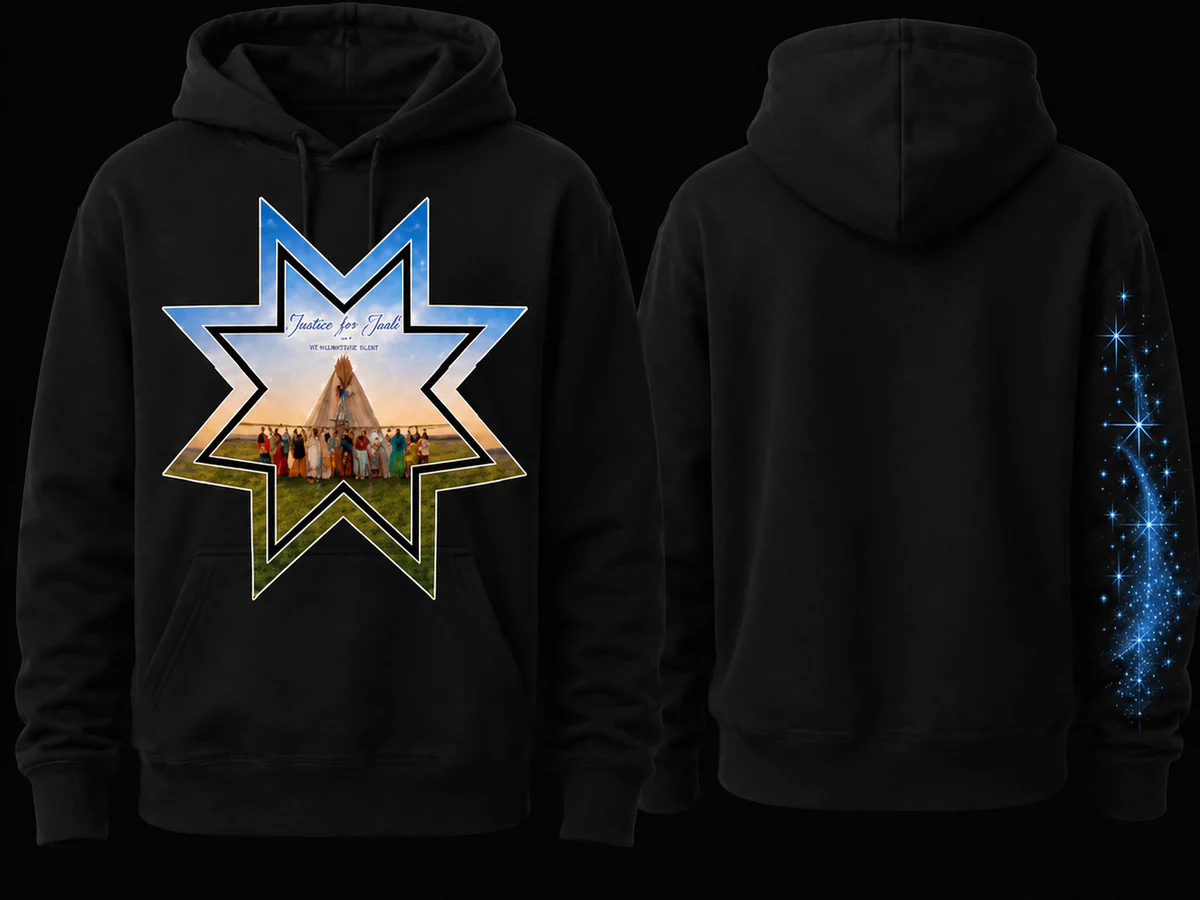
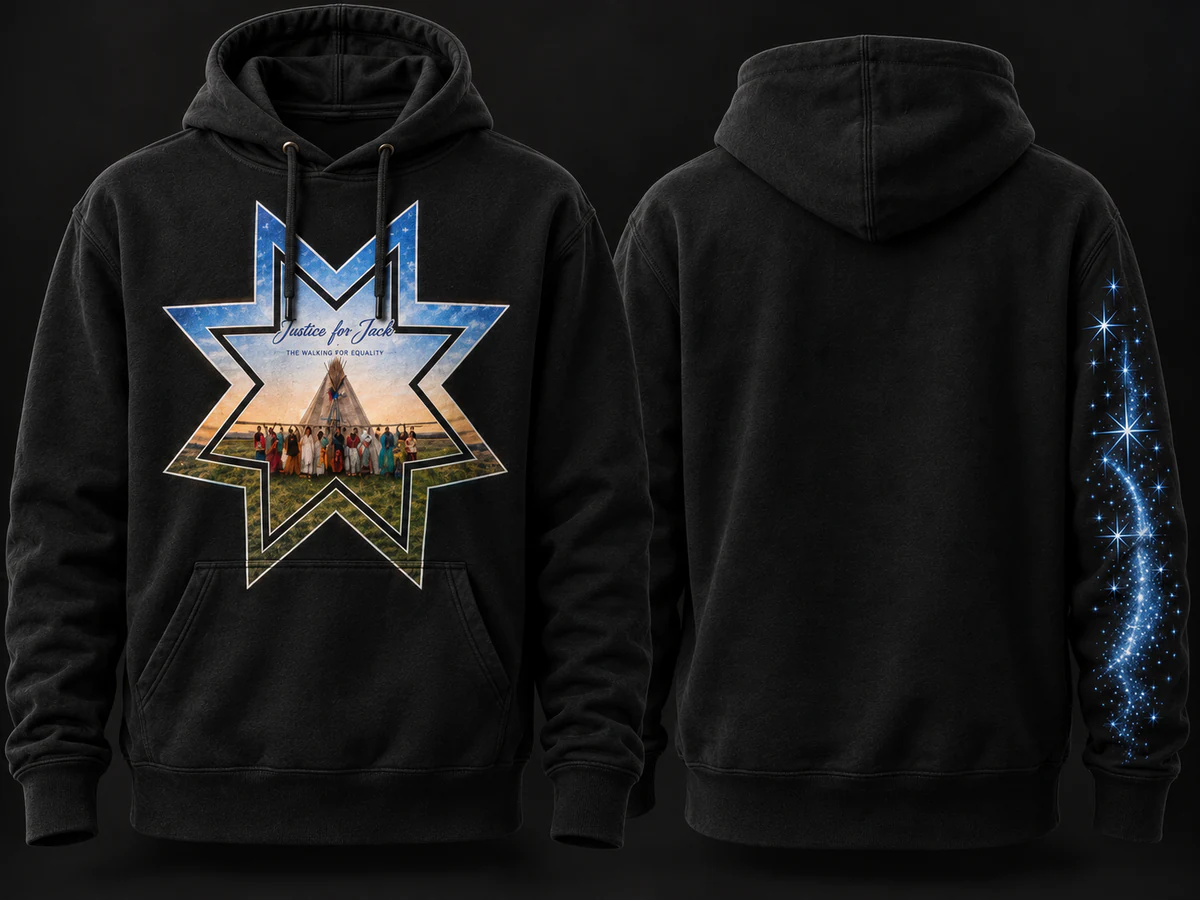
Update hoodie art, add vision and timeline photos
- Replace hoodie mockup with the new star-design artwork
- Add new "family at reserved table" photo for the homepage timeline
  section, removing the duplicate use of the remembering-Jaali image
- Add a new symbolic snow-field image for the vision section,
  replacing its placeholder reuse of the hero portrait
- Remove the now-unused jaaliPortraitSources asset entry

diff --git a/data/assets.ts b/data/assets.ts
@@ -1,23 +1,5 @@
 import type { AssetManifest } from "@/types/assets";
 
-const jaaliPortraitSources = {
-  desktop: {
-    src: "/assets/images/hero/jaali-banner-desktop.webp",
-    width: 816,
-    height: 1020,
-  },
-  tablet: {
-    src: "/assets/images/hero/jaali-banner-tablet.webp",
-    width: 720,
-    height: 900,
-  },
-  mobile: {
-    src: "/assets/images/hero/jaali-banner-mobile.webp",
-    width: 560,
-    height: 700,
-  },
-} as const;
-
 const jaaliUpdatedBannerSources = {
   desktop: {
     src: "/assets/images/hero/jaali-update-banner-desktop.webp",
@@ -51,6 +33,42 @@ const rememberingJaaliSources = {
     src: "/assets/images/backgrounds/remembering-jaali-mobile.webp",
     width: 720,
     height: 900,
+  },
+} as const;
+
+const jaaliFamilyTableSources = {
+  desktop: {
+    src: "/assets/images/backgrounds/jaali-family-table-desktop.webp",
+    width: 1408,
+    height: 1056,
+  },
+  tablet: {
+    src: "/assets/images/backgrounds/jaali-family-table-tablet.webp",
+    width: 1024,
+    height: 768,
+  },
+  mobile: {
+    src: "/assets/images/backgrounds/jaali-family-table-mobile.webp",
+    width: 720,
+    height: 900,
+  },
+} as const;
+
+const visionSnowfieldSources = {
+  desktop: {
+    src: "/assets/images/backgrounds/vision-snowfield-desktop.webp",
+    width: 888,
+    height: 1110,
+  },
+  tablet: {
+    src: "/assets/images/backgrounds/vision-snowfield-tablet.webp",
+    width: 720,
+    height: 900,
+  },
+  mobile: {
+    src: "/assets/images/backgrounds/vision-snowfield-mobile.webp",
+    width: 560,
+    height: 700,
   },
 } as const;
 
@@ -97,13 +115,13 @@ export const assetManifest = {
     timeline: {
       status: "ready",
       // TODO(content): Confirm final alternative text with the family/editorial team.
-      alt: "Jaali's family seated together beside a framed photograph of Jaali.",
+      alt: "A reserved table setting for Jaali's family at a community gathering.",
       decorative: false,
       fallbackAspectRatio: "4/5",
-      fallbackLabel: "Jaali's family with a framed photograph of Jaali",
+      fallbackLabel: "A reserved table setting for Jaali's family",
       quality: 88,
       sizes: "(min-width: 1200px) 38vw, (min-width: 768px) 50vw, 100vw",
-      sources: rememberingJaaliSources,
+      sources: jaaliFamilyTableSources,
     },
     quote: {
       status: "ready",
@@ -173,13 +191,13 @@ export const assetManifest = {
     vision: {
       status: "ready",
       // TODO(content): Confirm final alternative text with the family/editorial team.
-      alt: "Jaali smiling outdoors in warm sunset light.",
+      alt: "A woman in a black dress walking through a snow-covered field at dusk, near a birch grove and an old barn.",
       decorative: false,
       fallbackAspectRatio: "4/5",
-      fallbackLabel: "Portrait of Jaali",
+      fallbackLabel: "A figure walking through a snow-covered field",
       quality: 88,
       sizes: "(min-width: 1200px) 44vw, (min-width: 768px) 50vw, 100vw",
-      sources: jaaliPortraitSources,
+      sources: visionSnowfieldSources,
     },
   },
   metadata: {
